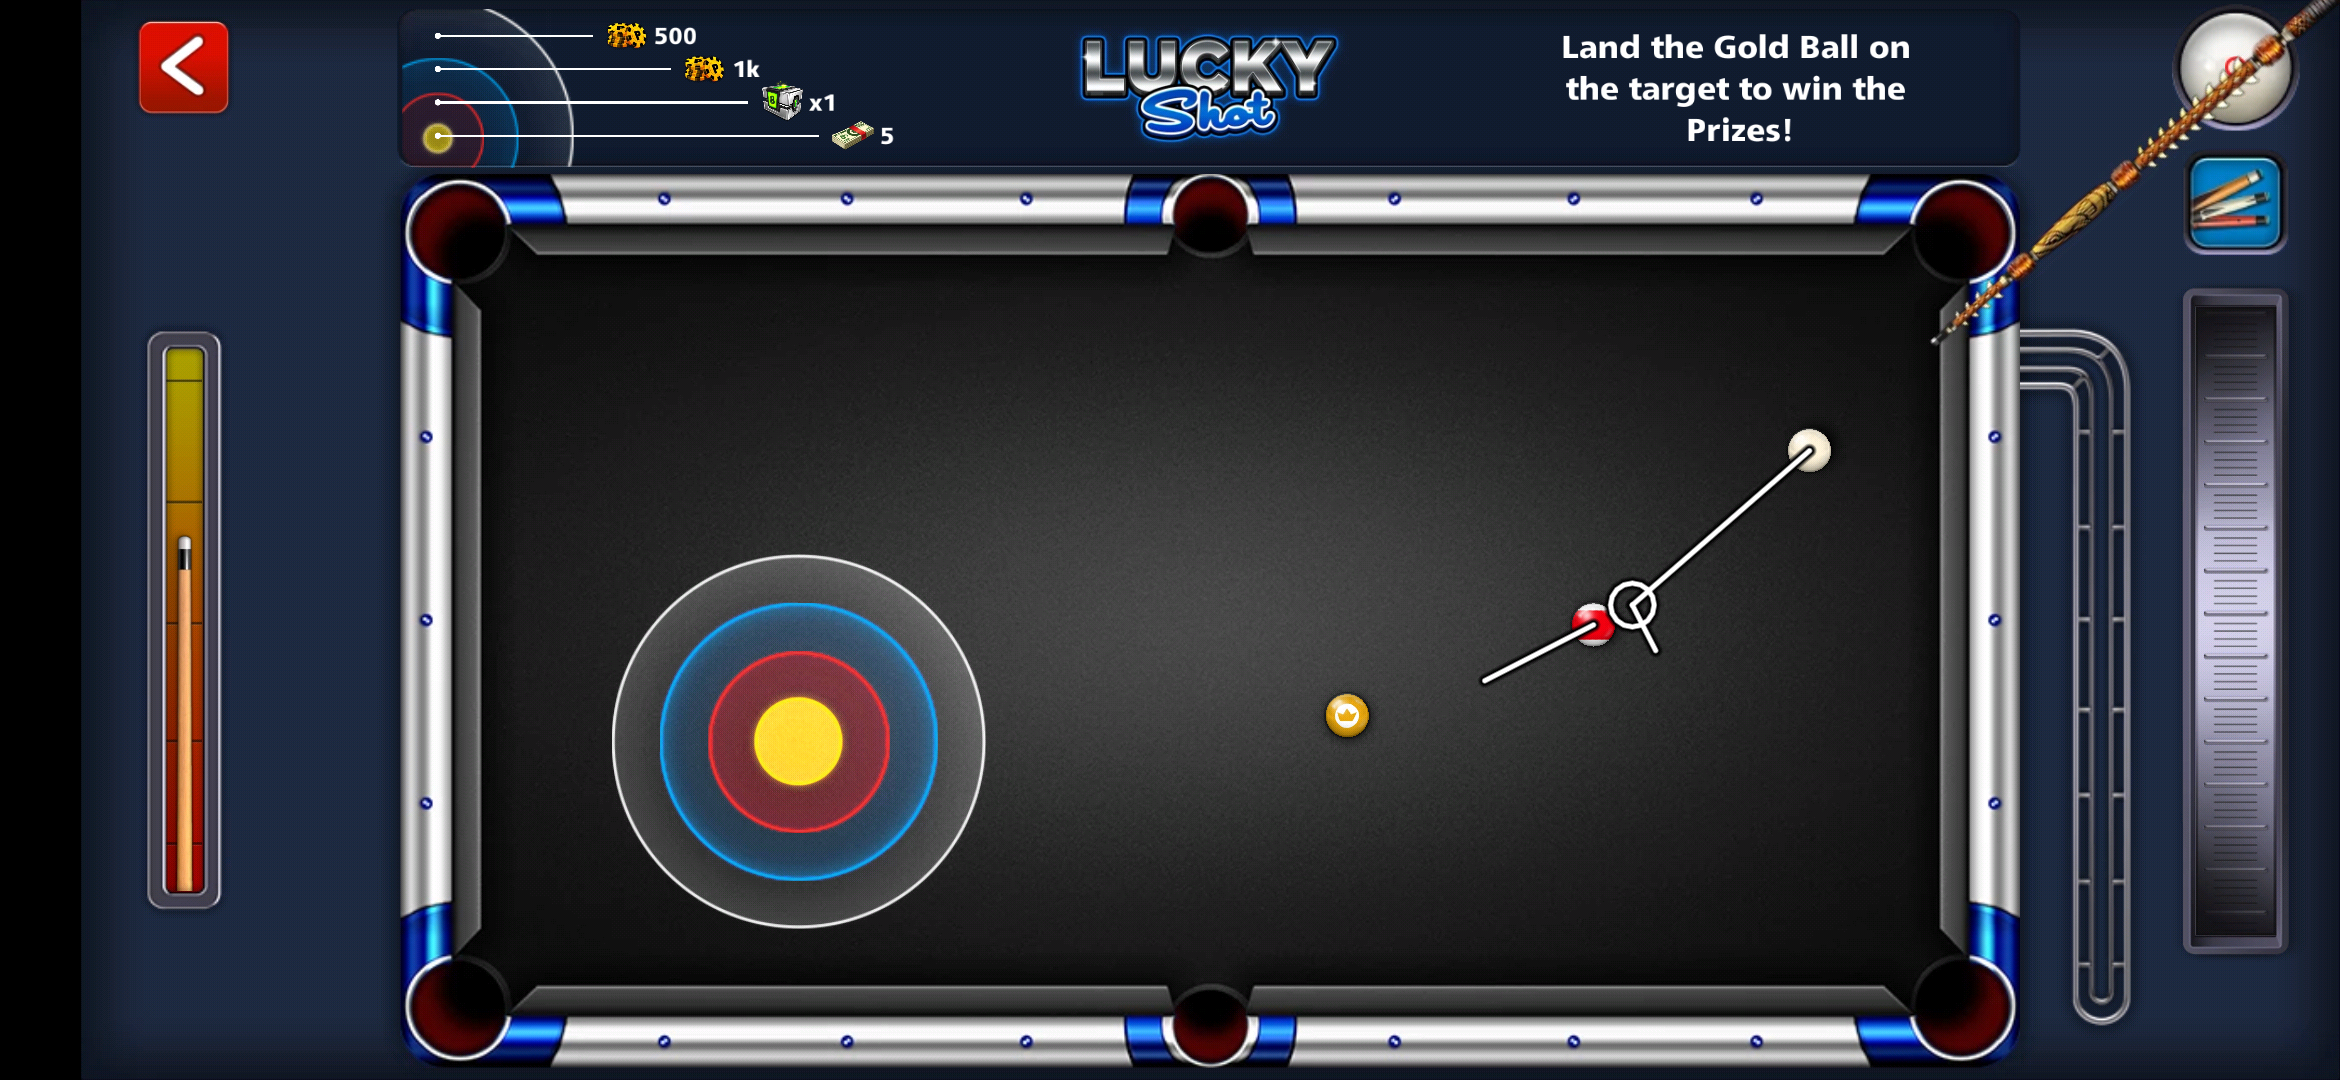
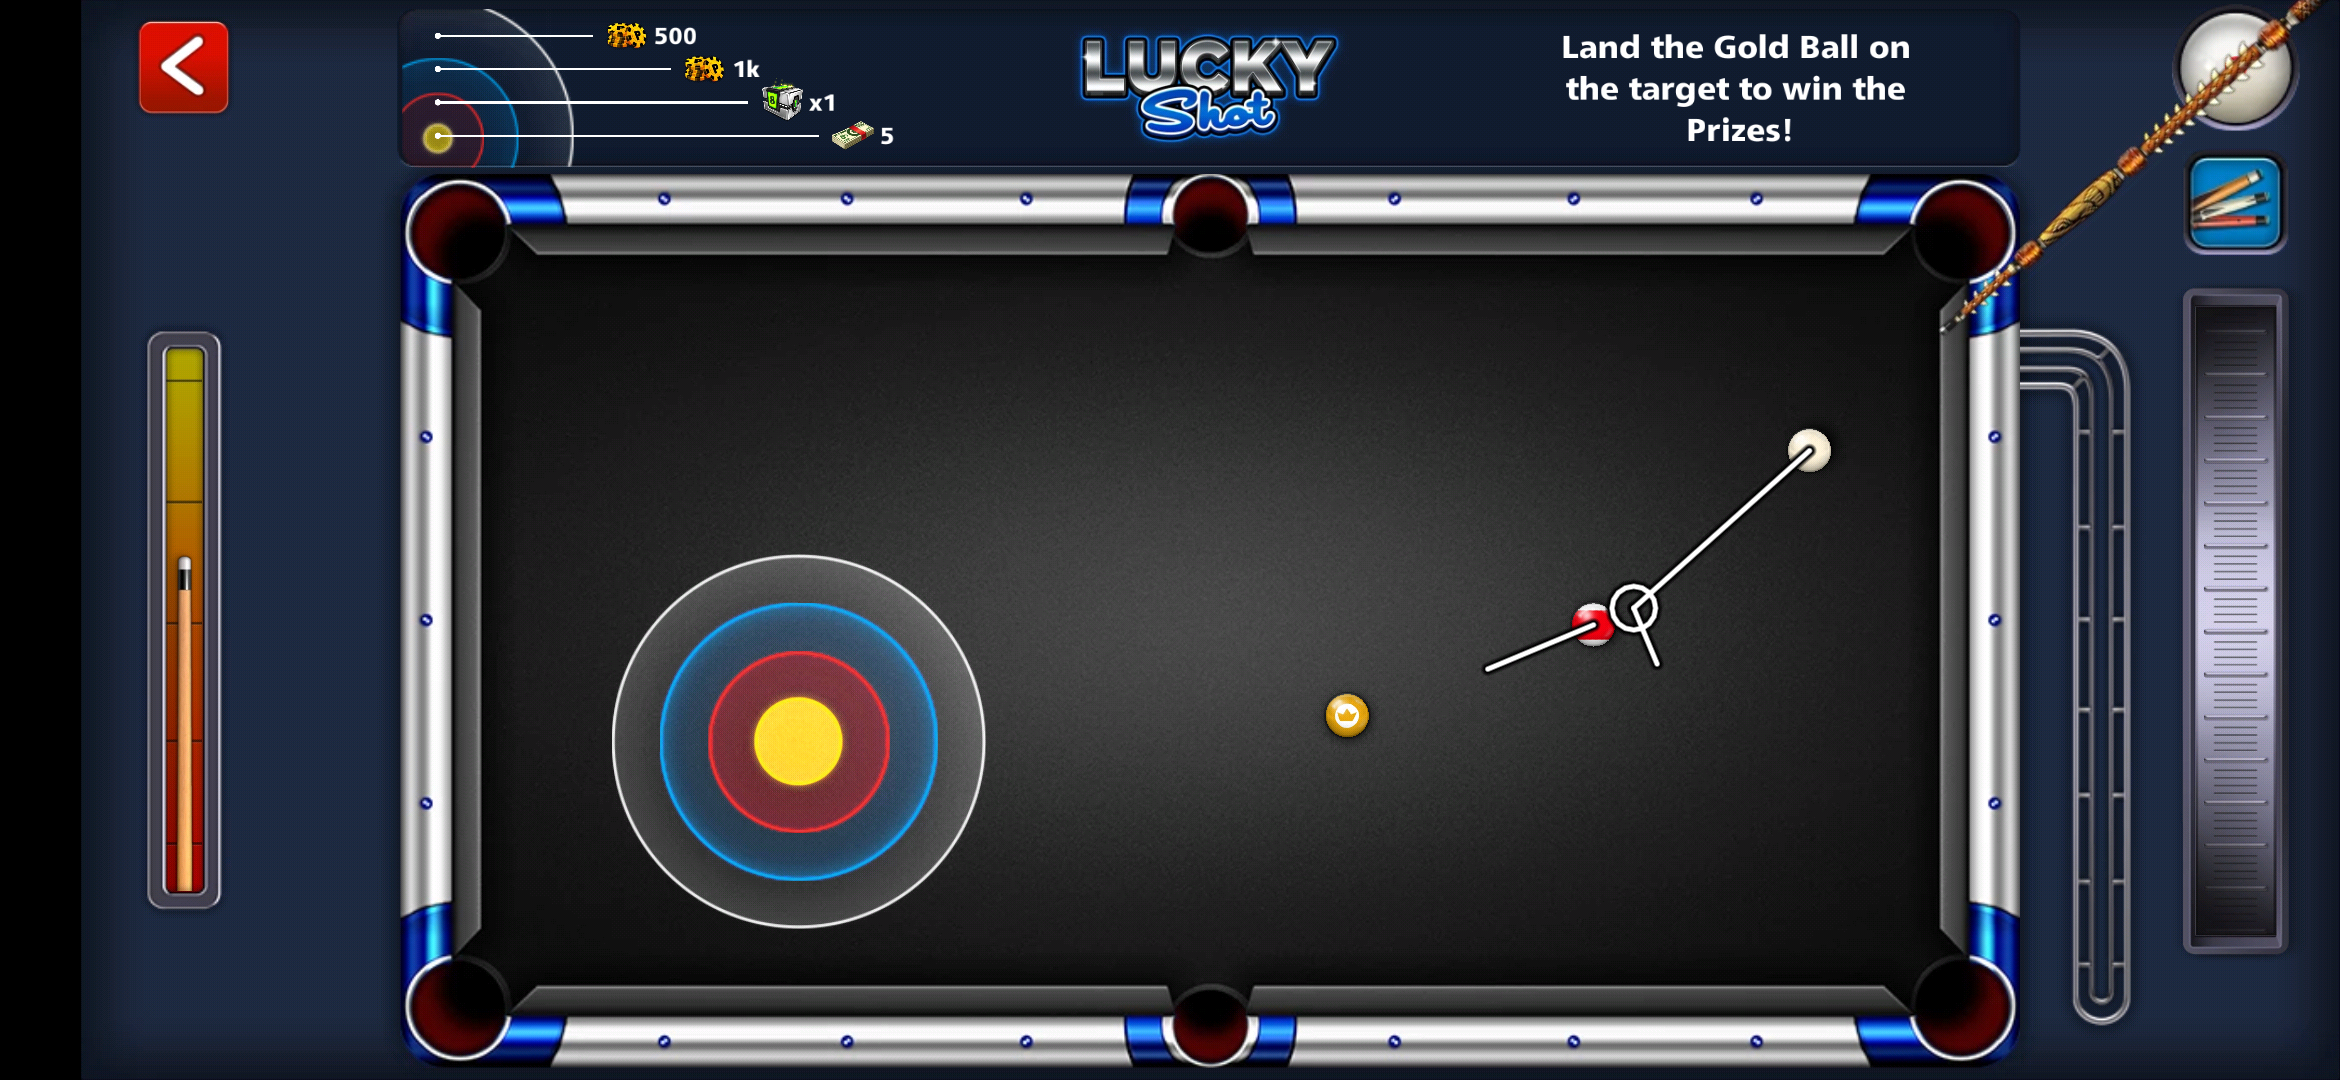
8BP: Improved Chain 10 shot, added Chain 16 shot

diff --git a/8BP/pool.js b/8BP/pool.js
@@ -9,7 +9,7 @@ var shotInfo = {
     },
     {
       "tint": "gold",
-      "desc": "As shown.",
+      "desc": "As shown. (now too weak???)",
       "target": [.45, .55],
       "cue":    [.75, .64],
       "gold":   [.69, .50]
@@ -236,7 +236,7 @@ var shotInfo = {
     {
       "tint": "grey",
       "desc": [
-        "Too soft, bad angle.",
+        "",
         ""
       ],
       "target": [.34, .69],
@@ -298,6 +298,17 @@ var shotInfo = {
       "cue":    [.78, .51],
       "gold":   [.54, .42],
       "red":    [.65, .46]
+    },
+    {
+      "tint": "red",
+      "desc": [
+        "",
+        ""
+      ],
+      "target": [.66, .59],
+      "cue":    [.29, .57],
+      "gold":   [.50, .69],
+      "red":    [.39, .67]
     }
   ],
   "rebound": [
